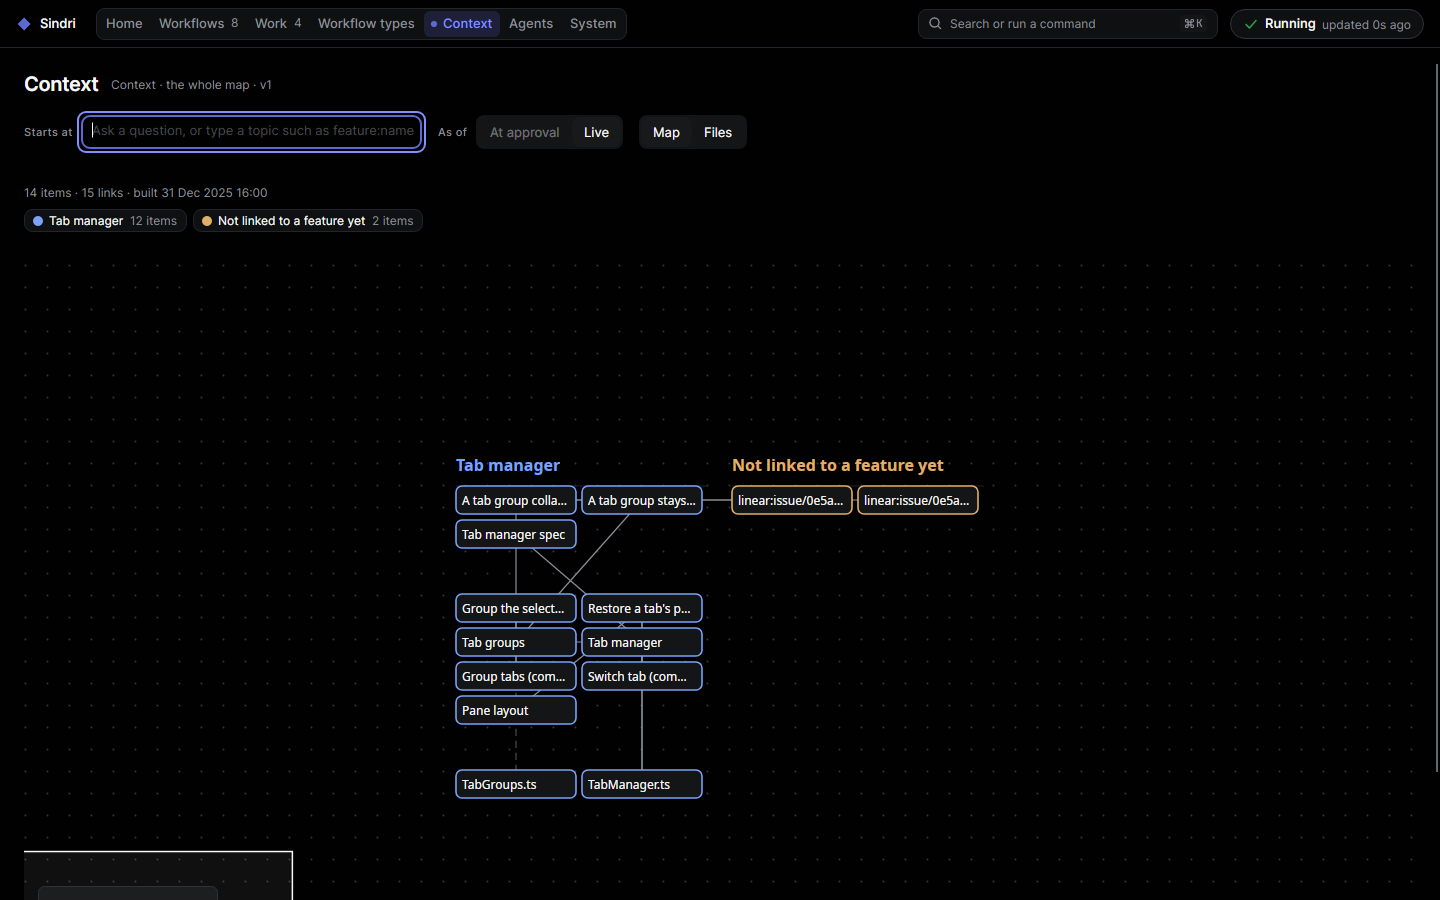
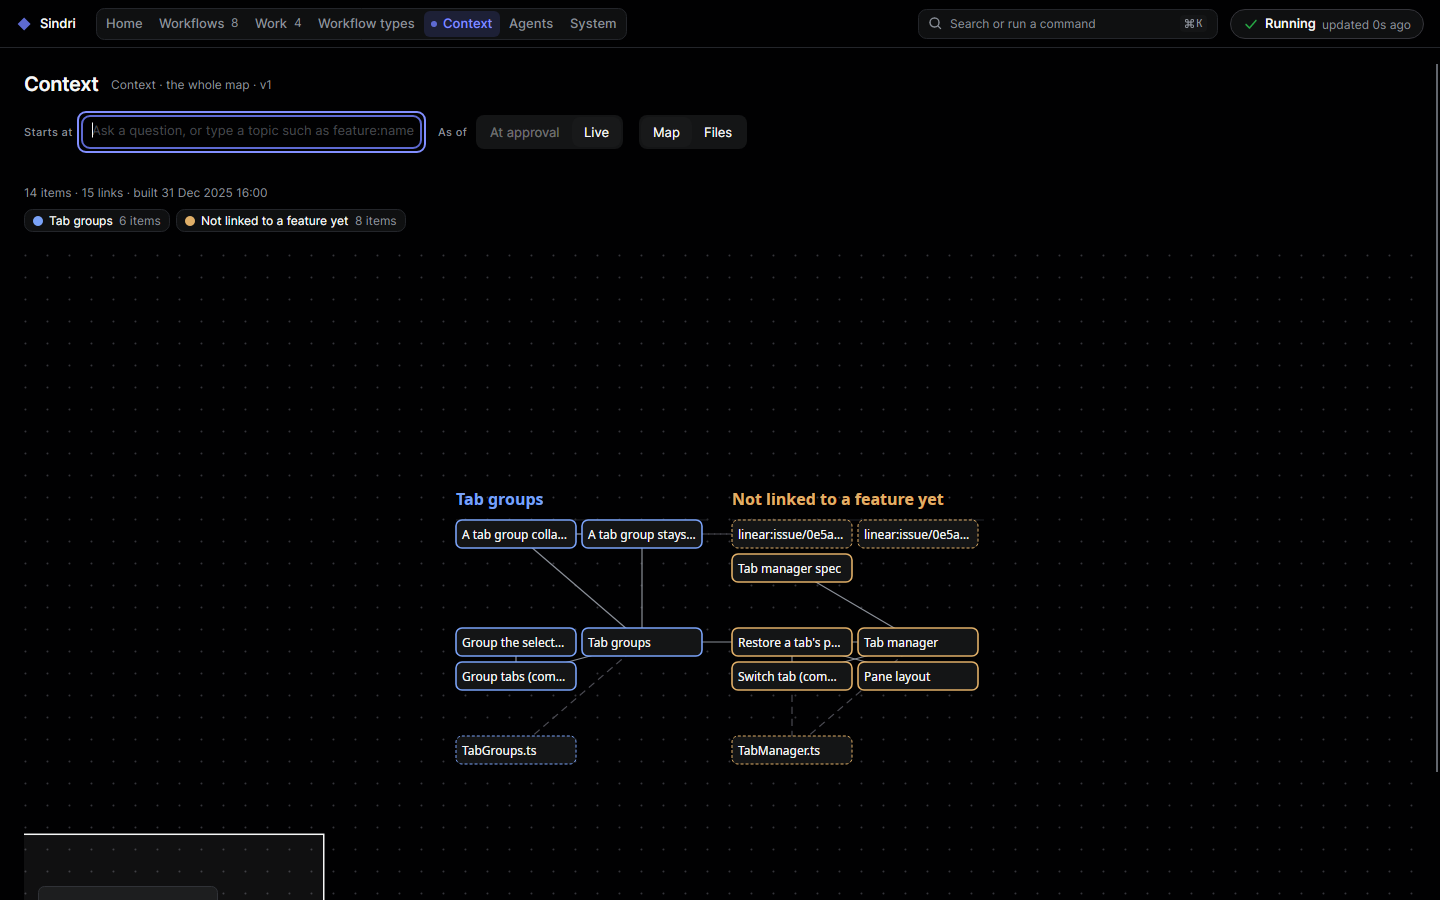
test: whole map re-pinned to #830's adaptive-depth goldens; frames regenerated
Reads the area names, counts and kinds from the tabs fixture now in the goldens (one umbrella feature with
a child: Tab groups); frames retaken on the new data. First frame on the over-budget map: 80 ms headless.

Claude-Session: https://claude.ai/code/session_011DkFn7FM6tq7fjB5hZPs1S

diff --git a/tests/Aw.Sindri.Ui.Tests/Context/Whole/WholeMapViewModelTests.cs b/tests/Aw.Sindri.Ui.Tests/Context/Whole/WholeMapViewModelTests.cs
@@ -54,9 +54,9 @@ public sealed class WholeMapViewModelTests
         map.Show(answer);
 
         Assert.Equal(map.Geometry!.Order, map.Areas.Select(a => a.Key), StringComparer.Ordinal);
-        var tabs = map.Areas.Single(a => a.Key == "feature:tabs.tab-manager");
-        Assert.Equal(("Tab manager", "12 items", "Tab manager, 12 items. Press Enter to open."), (tabs.Label, tabs.MembersText, tabs.Name));
-        Assert.Equal("2 actions, 2 code files, 2 decisions, 2 features, 2 screens, 1 record, 1 thing", tabs.KindsText);
+        var tabs = map.Areas.Single(a => a.Key == "feature:tabs.tab-groups");
+        Assert.Equal(("Tab groups", "6 items", "Tab groups, 6 items. Press Enter to open."), (tabs.Label, tabs.MembersText, tabs.Name));
+        Assert.Equal("2 decisions, 1 action, 1 code file, 1 feature, 1 screen", tabs.KindsText);
     }
 
     [Fact]
@@ -95,8 +95,8 @@ public sealed class WholeMapViewModelTests
 
         map.ShowArea(opened);
 
-        Assert.Equal((true, "Tab manager", string.Empty), (map.IsAreaOpen, map.AreaTitle, map.ByAreaNote));
-        Assert.Equal((false, 12, 1), (map.ByArea, map.Geometry!.Nodes.Count, map.Geometry.Columns.Count));
+        Assert.Equal((true, "Tab groups", string.Empty), (map.IsAreaOpen, map.AreaTitle, map.ByAreaNote));
+        Assert.Equal((false, 6, 1), (map.ByArea, map.Geometry!.Nodes.Count, map.Geometry.Columns.Count));
         map.CloseArea();
         Assert.Equal((false, true), (map.IsAreaOpen, ReferenceEquals(overview, map.Geometry)));
         Assert.Equal(Labels.ContextWholeByArea(14), map.ByAreaNote);
@@ -110,7 +110,7 @@ public sealed class WholeMapViewModelTests
 
         map.ShowArea(WholeMapLayoutTests.Draft("area-truncated"));
 
-        Assert.Equal("Showing 5 of 12 items; the rest are not shown.", map.ByAreaNote);
+        Assert.Equal("Showing 5 of 6 items; the rest are not shown.", map.ByAreaNote);
     }
 
     [Fact]

diff --git a/tests/Aw.Sindri.Ui.Tests/Context/Whole/WholeMapLayoutTests.cs b/tests/Aw.Sindri.Ui.Tests/Context/Whole/WholeMapLayoutTests.cs
@@ -32,7 +32,7 @@ public sealed class WholeMapLayoutTests
     {
         var geometry = WholeMapLayout.Place(Draft("nodes-small"));
 
-        Assert.Equal(["feature:tabs.tab-manager", "area:unassigned"], geometry.Order, StringComparer.Ordinal);
+        Assert.Equal(["feature:tabs.tab-groups", "area:unassigned"], geometry.Order, StringComparer.Ordinal);
         Assert.Equal(geometry.Order, geometry.Columns.Select(c => c.Key), StringComparer.Ordinal);
         Assert.False(geometry.ByArea);
     }

diff --git a/tests/Aw.Sindri.Ui.Tests/Views/WholeMapFramesTests.cs b/tests/Aw.Sindri.Ui.Tests/Views/WholeMapFramesTests.cs
@@ -77,8 +77,8 @@ public sealed class WholeMapFramesTests : FrameHost
         Settle(window);
 
         Assert.True(Visible(window, "WholeAllFeatures"));
-        Assert.Equal("Tab manager", Named<TextBlock>(window, "WholeAreaTitle").Text);
-        Assert.Equal(12, shell.Context.Whole.Geometry!.Nodes.Count);
+        Assert.Equal("Tab groups", Named<TextBlock>(window, "WholeAreaTitle").Text);
+        Assert.Equal(6, shell.Context.Whole.Geometry!.Nodes.Count);
     });
 
     [Fact]

diff --git a/tests/Aw.Sindri.Ui.Testing/ContextAnswers.cs b/tests/Aw.Sindri.Ui.Testing/ContextAnswers.cs
@@ -43,7 +43,7 @@ internal static class ContextAnswers
     }
 
     /// <summary>The one area the goldens hold in full.</summary>
-    internal const string OpenArea = "feature:tabs.tab-manager";
+    internal const string OpenArea = "feature:tabs.tab-groups";
 
     /// <summary>The lenses for a query: a refusal golden for what the goldens cannot answer, else the golden for one anchor or for a set.</summary>
     /// <param name="query">What was asked.</param>
